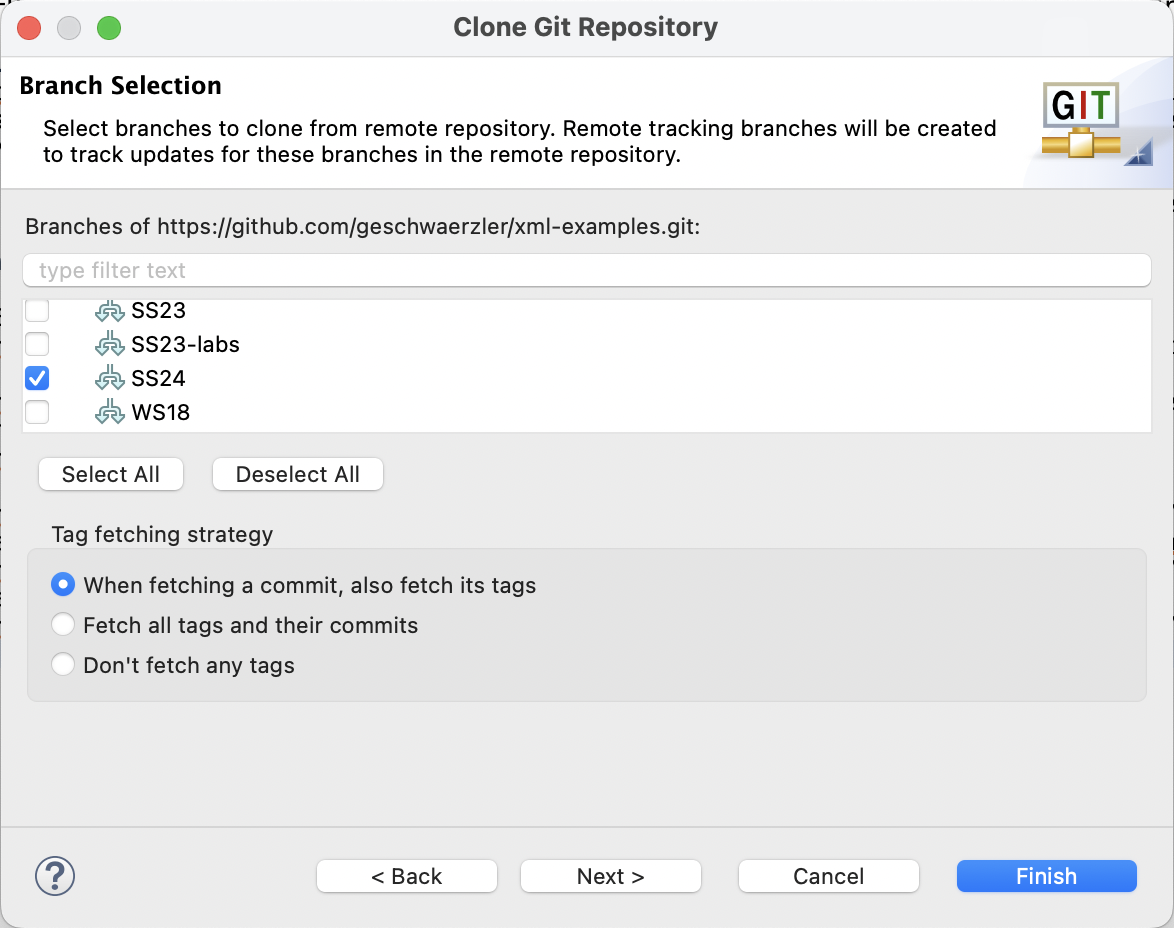
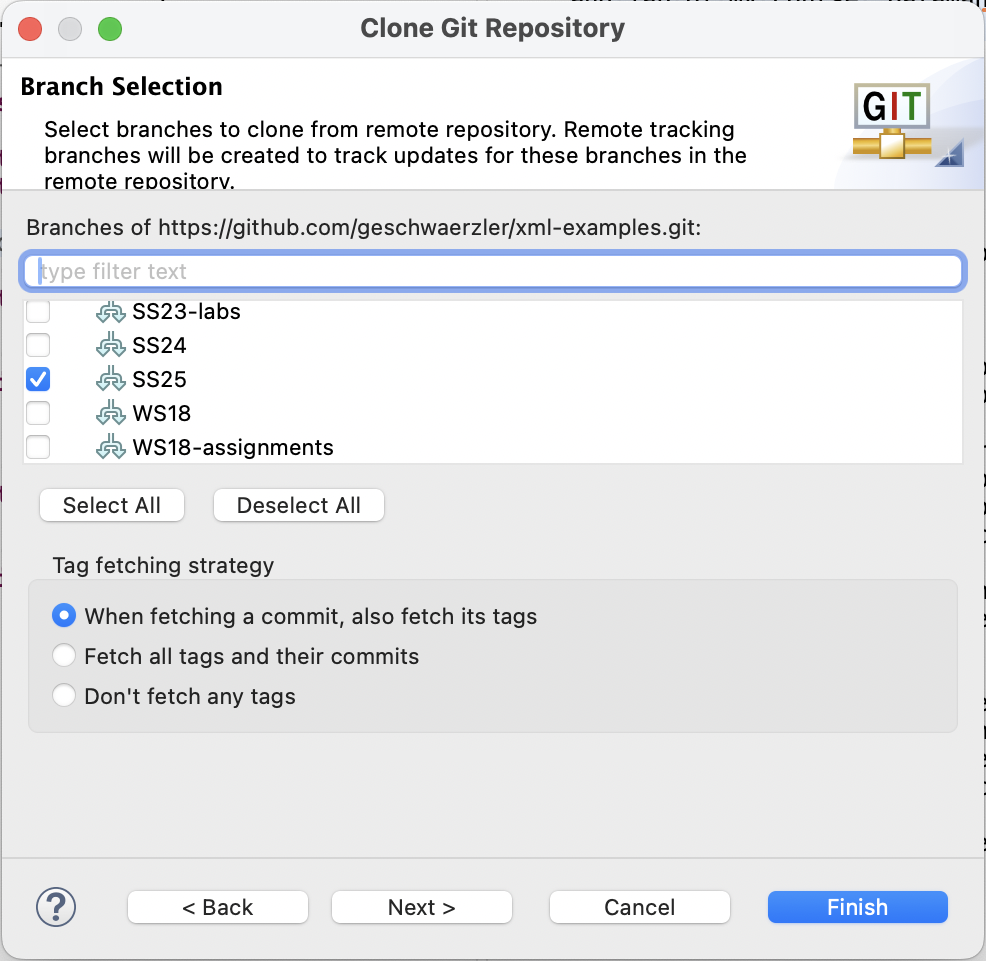
SS25 branch

diff --git a/README.md b/README.md
@@ -19,6 +19,6 @@ In order to download this project, or better "git clone" this project, you can u
 1. Enter "geschwaerzler/" in the search field, push (Search), select the repo geschwaerzler/xml-examples and (Next >).  
    <img src="readme-img/clone-git-repo-2.png" alt="Step 2: Import Git Repository from GitHub" width="490px"/>
 1. (Deselect All) branches and select "SS25" as inital branch and (Next >).  
-   <img src="readme-img/clone-git-repo-3.png" alt="Step3: Branch Selection" width="587px"/>
+   <img src="readme-img/clone-git-repo-3.png" alt="Step3: Branch Selection" width="493px"/>
 1. Remember the directory location of the repo on your local disk and (Finish). The repo should not be located in your Eclipse workspace!  
-   <img src="readme-img/clone-git-repo-4.png" alt="Step4: Local Destination" width="490px"/>
+   <img src="readme-img/clone-git-repo-4.png" alt="Step4: Local Destination" width="491px"/>
